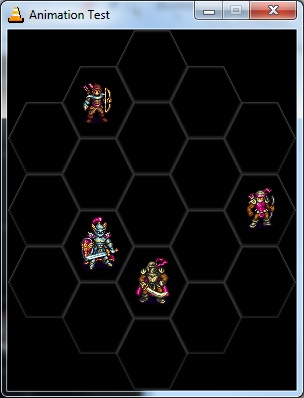
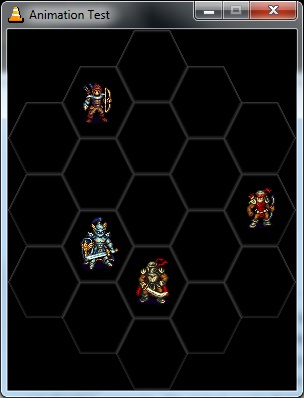
Lowered sound effect volume, updated readme.

diff --git a/src/sdl_helper.cpp b/src/sdl_helper.cpp
@@ -475,5 +475,5 @@ void sdlPlaySound(const SdlSound &sound)
         return;
     }
 
-    Mix_Volume(channel, MIX_MAX_VOLUME / 2);
+    Mix_Volume(channel, MIX_MAX_VOLUME / 3);
 }

diff --git a/README.md b/README.md
@@ -55,12 +55,14 @@ This little app does what you'd expect: it plays music.  Any game is probably go
 
 ## Sprite Animation
 
-This demo places a few sprites within a hex grid.  It aims to experiment with the unit animations used in Battle for Wesnoth.  So far we have an archer firing an arrow and a knight swinging a sword.  [See a video](http://youtu.be/_Ax89QjaccE).
+This demo places a few sprites within a hex grid.  It aims to experiment with the unit animations used in Battle for Wesnoth.  So far we have an archer firing an arrow and a knight swinging a sword.  [See a video](http://youtu.be/Up7vQKw3Nvg).
 
 **Technical details:**
 
 - Up to this point I've always been drawing full images.  This demo adds the ability to draw each animation frame from a sprite sheet.
 - All of the sprites face to the right.  I flip the enemy graphics in code at runtime.
+- After doing the jukebox app, it was simple to add a background music track and some sound effects.
+- I've implemented the Battle for Wesnoth [team coloring](http://wiki.wesnoth.org/Team_Color_Shifting) algorithm to adjust the colors of each sprite at load time.
 
 ![screenshot](https://raw.github.com/mkristofik/libsdl-demos/master/animate_screen.jpg)
 
